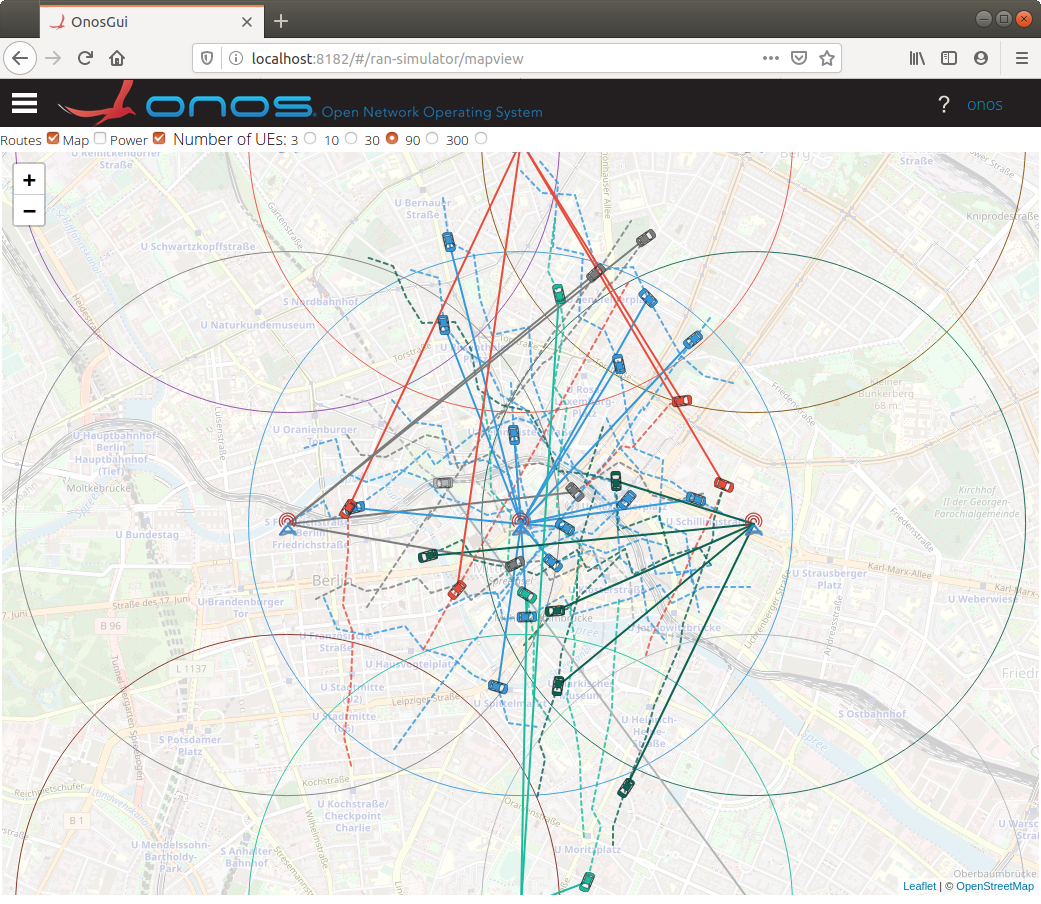
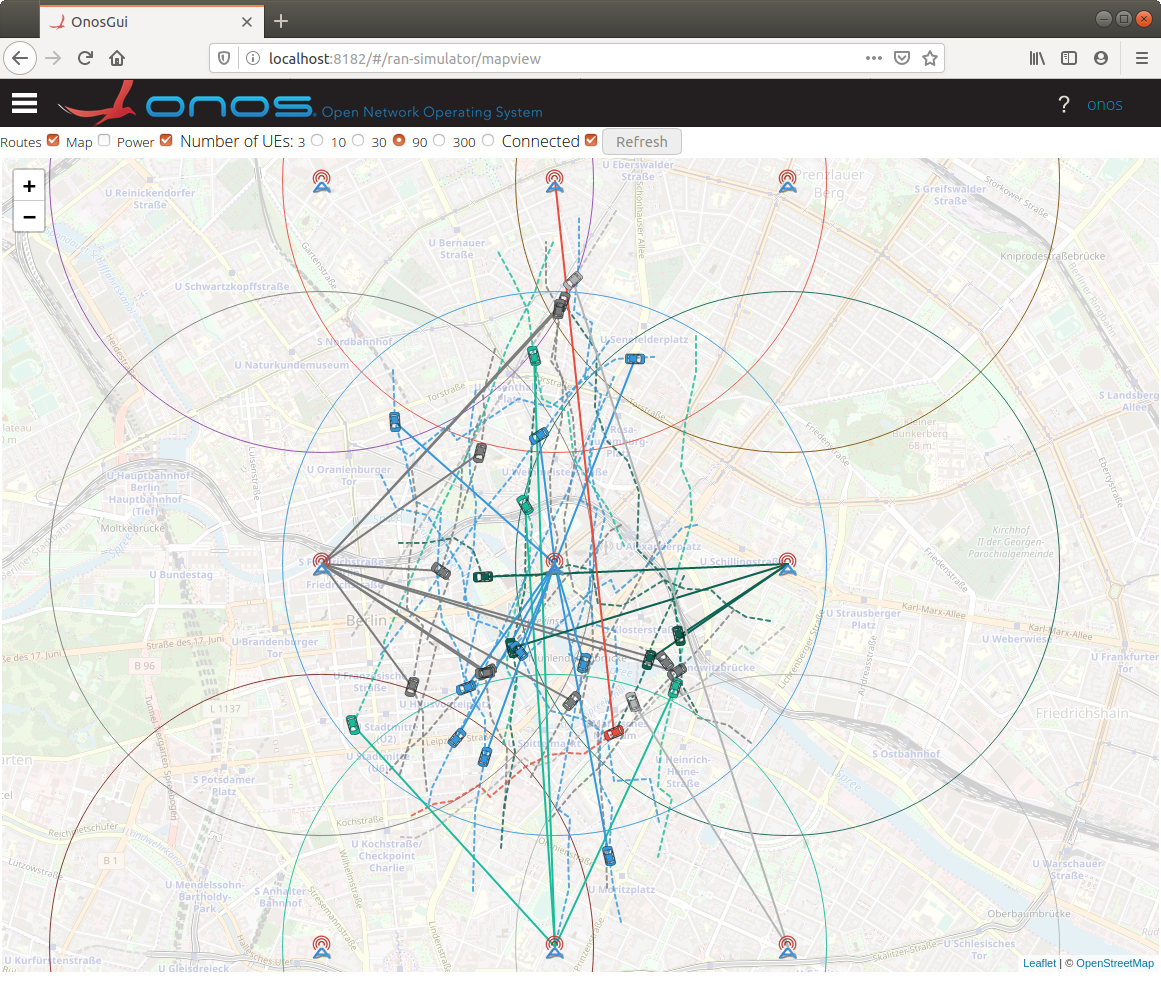
ran-simulator mapview - Added controls for disconnecting, refreshing and reconnecting (#108)
* Added controls for disconnecting, refreshing and reconnecting map

* Updated documentation re connect and refresh

diff --git a/web/onos-gui/src/app/ran-simulator/mapview/mapview.component.ts b/web/onos-gui/src/app/ran-simulator/mapview/mapview.component.ts
@@ -70,6 +70,7 @@ export class MapviewComponent implements OnInit, OnDestroy {
     showRoutes = true;
     showMap = false;
     showPower = true;
+    connected = true;
 
     towerSub: Subscription;
     routesSub: Subscription;
@@ -110,9 +111,11 @@ export class MapviewComponent implements OnInit, OnDestroy {
                 this.initMap(mapLayout.getCenter(), mapLayout.getZoom());
 
                 // Only after the map tiles have loaded can we start listening for streams
-                this.startListeningTowers();
-                this.startListeningRoutes();
-                this.startListeningUEs();
+                this.startListeningTowers(true);
+                setTimeout(() => { // Wait for initial towers to arrive
+                    this.startListeningRoutes(true);
+                    this.startListeningUEs(true);
+                }, 200);
             },
             (err) => {
                 this.connectivityService.showVeil([
@@ -123,8 +126,8 @@ export class MapviewComponent implements OnInit, OnDestroy {
             });
     }
 
-    private startListeningTowers(): void {
-        this.towerSub = this.trafficSimService.requestListTowers().subscribe((resp) => {
+    private startListeningTowers(asStream: boolean): void {
+        this.towerSub = this.trafficSimService.requestListTowers(asStream).subscribe((resp) => {
             if (resp.getType() === Type.NONE || resp.getType() === Type.ADDED) {
                 this.initTower(resp.getTower(), this.zoom);
             } else if (resp.getType() === Type.UPDATED) {
@@ -143,9 +146,9 @@ export class MapviewComponent implements OnInit, OnDestroy {
         });
     }
 
-    private startListeningRoutes() {
+    private startListeningRoutes(asStream: boolean) {
         // Get the list of routes - we're doing this here because we need to wait until `map` object is populated
-        this.routesSub = this.trafficSimService.requestListRoutes().subscribe((resp) => {
+        this.routesSub = this.trafficSimService.requestListRoutes(asStream).subscribe((resp) => {
             if (resp.getType() === Type.NONE || resp.getType() === Type.ADDED) {
                 this.initRoute(resp.getRoute());
             } else if (resp.getType() === Type.UPDATED) {
@@ -164,8 +167,8 @@ export class MapviewComponent implements OnInit, OnDestroy {
         });
     }
 
-    private startListeningUEs() {
-        this.uesSub = this.trafficSimService.requestListUes().subscribe((resp: ListUesResponse) => {
+    private startListeningUEs(asStream: boolean) {
+        this.uesSub = this.trafficSimService.requestListUes(asStream).subscribe((resp: ListUesResponse) => {
             if (resp.getType() === Type.NONE || resp.getType() === Type.ADDED) {
                 this.initUe(resp.getUe());
             } else if (resp.getType() === Type.UPDATED) {
@@ -336,8 +339,10 @@ export class MapviewComponent implements OnInit, OnDestroy {
     }
 
     private initUe(ue: Ue): void {
+        const servingTower = this.towerMarkers.get(ue.getServingTower());
+        const rotation = (270 - ue.getRotation()) + 'deg';
         const ueIcon = L.divIcon({
-            html: CAR_ICON,
+            html: CAR_ICON.replace('#000000', servingTower.options.color).replace('0deg', rotation),
             className: 'ue-div-icon',
             iconSize: [20, 20],
             iconAnchor: [10, 10],
@@ -353,15 +358,14 @@ export class MapviewComponent implements OnInit, OnDestroy {
         this.ueMap.set(ue.getName(), ueMarker);
         ueMarker.addTo(this.map);
 
-        const tower = this.towerMarkers.get(ue.getServingTower());
         let towerPos: L.LatLng;
         let towerColor: string;
-        if (tower === undefined) { // May happen at startup - will be corrected on update
+        if (servingTower === undefined) { // May happen at startup - will be corrected on update
             towerPos = new L.LatLng(ue.getPosition().getLat(), ue.getPosition().getLng());
             towerColor = 'black';
         } else {
-            towerPos = tower.getLatLng();
-            towerColor = tower.options.color;
+            towerPos = servingTower.getLatLng();
+            towerColor = servingTower.options.color;
         }
         const ueLine = L.polyline([
                 [ue.getPosition().getLat(), ue.getPosition().getLng()],
@@ -433,4 +437,43 @@ export class MapviewComponent implements OnInit, OnDestroy {
         });
     }
 
+    connectMap(connected: boolean) {
+        if (connected) {
+            console.log('Connected to gRPC streams');
+            this.clearMapAndRefresh(true);
+        } else {
+            console.log('Disconnected from gRPC streams');
+            this.uesSub.unsubscribe();
+            this.routesSub.unsubscribe();
+            this.towerSub.unsubscribe();
+        }
+    }
+
+    refreshMap() {
+        if (!this.connected) {
+            this.clearMapAndRefresh(false);
+        }
+    }
+
+    private clearMapAndRefresh(streaming: boolean) {
+        if (!this.connected || streaming) {
+            console.log('Clearing map and refreshing map. Streaming?', streaming);
+            this.ueLineMap.forEach((u) => u.remove());
+            this.ueLineMap.clear();
+            this.ueMap.forEach((ue) => ue.remove());
+            this.ueMap.clear();
+            this.routePolylines.forEach((r) => r.remove());
+            this.routePolylines.clear();
+            this.powerCircleMap.forEach((p) => p.remove());
+            this.powerCircleMap.clear();
+            this.towerMarkers.forEach((t) => t.remove());
+            this.towerMarkers.clear();
+
+            this.startListeningTowers(streaming);
+            setTimeout(() => { // Wait for towers to finish
+                this.startListeningRoutes(streaming);
+                this.startListeningUEs(streaming);
+            }, 200);
+        }
+    }
 }

diff --git a/web/onos-gui/src/app/ran-simulator/proto/ran-simulator-trafficsim.service.ts b/web/onos-gui/src/app/ran-simulator/proto/ran-simulator-trafficsim.service.ts
@@ -59,9 +59,9 @@ export class RanSimulatorTrafficsimService {
         return getMapLayoutObs;
     }
 
-    requestListTowers(): Observable<ListTowersResponse> {
+    requestListTowers(asStream: boolean): Observable<ListTowersResponse> {
         const req = new ListTowersRequest();
-        req.setSubscribe(true);
+        req.setSubscribe(asStream);
         const stream = this.trafficClient.listTowers(req, {});
 
         const listTowersObs = new Observable<ListTowersResponse>((observer: Subscriber<ListTowersResponse>) => {
@@ -82,9 +82,9 @@ export class RanSimulatorTrafficsimService {
         return listTowersObs;
     }
 
-    requestListRoutes(): Observable<ListRoutesResponse> {
+    requestListRoutes(asStream: boolean): Observable<ListRoutesResponse> {
         const routeReq = new ListRoutesRequest();
-        routeReq.setSubscribe(true);
+        routeReq.setSubscribe(asStream);
         routeReq.setWithoutreplay(false);
         const stream = this.trafficClient.listRoutes(routeReq, {});
 
@@ -104,9 +104,9 @@ export class RanSimulatorTrafficsimService {
         return listRoutesObs;
     }
 
-    requestListUes(): Observable<ListUesResponse> {
+    requestListUes(asStream: boolean): Observable<ListUesResponse> {
         const routeReq = new ListRoutesRequest();
-        routeReq.setSubscribe(true);
+        routeReq.setSubscribe(asStream);
         routeReq.setWithoutreplay(false);
         const stream = this.trafficClient.listUes(routeReq, {});
 

diff --git a/web/onos-gui/src/app/ran-simulator/mapview/mapview.component.html b/web/onos-gui/src/app/ran-simulator/mapview/mapview.component.html
@@ -19,12 +19,15 @@
 <input type="checkbox" [(ngModel)]="showMap" (ngModelChange)="updateMap($event)">
 <label><small> Power</small></label>
 <input type="checkbox" [(ngModel)]="showPower" (ngModelChange)="updatePower($event)">
-
 <label>  Number of UEs:  </label>
 <span *ngFor="let opt of numRoutesOptions">
     <label><small> {{opt}}</small></label>
     <input type="radio" [id]="opt" name="'numues'" [value]="opt" [checked]="opt === numRoutes" [title]="opt" (click)="changeNumUes(opt)">
 </span>
+<label>   Connected</label>
+<input type="checkbox" [(ngModel)]="connected" (ngModelChange)="connectMap($event)">
+<label></label>
+<input type="button" value="Refresh" [disabled]="connected" (click)="refreshMap()">
 <!-- inspired by https://alligator.io/angular/angular-and-leaflet/ -->
 <div class="map-container">
     <div class="map-frame">

diff --git a/docs/ran-gui.md b/docs/ran-gui.md
@@ -26,8 +26,19 @@ on and off). The color of the route matched the UE.
 A line connects each UE to its **serving tower**. The color of the line changes   
 depending on the tower.
 
-The number of UEs can be varied by clicking the readio buttons at the top. The
+The number of UEs can be varied by clicking the radio buttons at the top. The
 minimum and maximum values are set through the startup parameters of the 
-`ran-simulator` - see [ran-simulator/docs/README.md](https://github.com/onosproject/ran-simulator/blob/master/docs/README.md) 
+`ran-simulator` - see [ran-simulator/docs/README.md](https://github.com/onosproject/ran-simulator/blob/master/docs/README.md)
+
+Normally the MapView connects to the `ran-simulator` microservice and constantly
+listens to streaming gRPC messages updating the towers and UE's. This can be
+disconnected however by clicking on the "Connected" checkbox.
+
+> This removes the burden of streaming from the `ran-simulator` while not connected.
+> While making latency measurements all GUIs should be disconnected
+
+Single updates of the current state can be had by clicking the "Refresh" button.
+
+> This can be useful to get a visual snapshot of UE counts and positions
 
 ![onos-gui-ran-simulator-mapview](images/onos-gui-ran-simulator-mapview.png)
